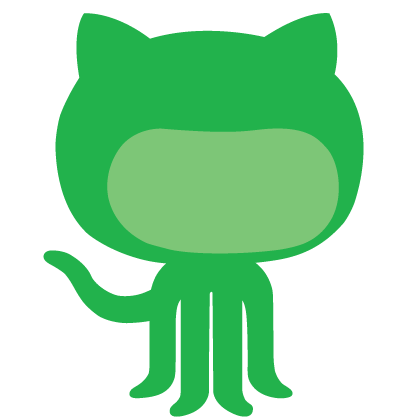
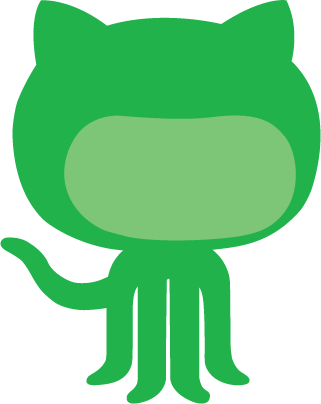
Added backgrounds and cropped textures

Changed region(s): [[0.0, 0.0, 1.0, 1.0]]

diff --git a/public/js/game/Drawing.js b/public/js/game/Drawing.js
@@ -12,11 +12,14 @@
  *   draw to.
  * @constructor
  */
-function Drawing(context, selfPlayerImg, otherPlayerImg, platformImg) {
+function Drawing(context, selfPlayerImg, otherPlayerImg,
+                 projectileImg, platformImg, backgroundImg) {
   this.context = context;
   this.selfPlayerImg = selfPlayerImg;
   this.otherPlayerImg = otherPlayerImg;
+  this.projectileImg = projectileImg;
   this.platformImg = platformImg;
+  this.backgroundImg = backgroundImg;
 }
 
 /**
@@ -30,6 +33,7 @@ Drawing.OTHER_PLAYER_LEFT_SRC = Drawing.BASE_IMG_URL + 'other-player-left.png';
 Drawing.OTHER_PLAYER_RIGHT_SRC = Drawing.BASE_IMG_URL + 'other-player-right.png';
 Drawing.PROJECTILE_SRC = Drawing.BASE_IMG_URL + 'projectile.png';
 Drawing.PLATFORM_SRC = Drawing.BASE_IMG_URL + 'platform.png';
+Drawing.BACKGROUND_SRC = Drawing.BASE_IMG_URL + 'background.png';
 
 /**
  * This is a factory method for creating a Drawing object.
@@ -38,12 +42,16 @@ Drawing.PLATFORM_SRC = Drawing.BASE_IMG_URL + 'platform.png';
  * @return {Drawing}
  */
 Drawing.create = function(context) {
-  var selfPlayerImg = [Drawing.createImage(Drawing.SELF_PLAYER_LEFT_SRC, 100, 100),
-                       Drawing.createImage(Drawing.SELF_PLAYER_RIGHT_SRC, 100, 100)];
-  var otherPlayerImg = [Drawing.createImage(Drawing.OTHER_PLAYER_LEFT_SRC, 100, 100),
-                        Drawing.createImage(Drawing.OTHER_PLAYER_RIGHT_SRC, 100, 100)];
-  var platformImg = Drawing.createImage(Drawing.PLATFORM_SRC, 100, 100);
-  return new Drawing(context, selfPlayerImg, otherPlayerImg, platformImg);
+  var selfPlayerImg = [Drawing.createImage(Drawing.SELF_PLAYER_LEFT_SRC, 0, 0),
+                       Drawing.createImage(Drawing.SELF_PLAYER_RIGHT_SRC, 0, 0)];
+  var otherPlayerImg = [Drawing.createImage(Drawing.OTHER_PLAYER_LEFT_SRC, 0, 0),
+                        Drawing.createImage(Drawing.OTHER_PLAYER_RIGHT_SRC, 0, 0)];
+  var projectileImg = Drawing.createImage(Drawing.PROJECTILE_SRC, 0, 0);
+  var platformImg = Drawing.createImage(Drawing.PLATFORM_SRC, 0, 0);
+  var backgroundImg = Drawing.createImage(Drawing.BACKGROUND_SRC, 0, 0);
+
+  return new Drawing(context, selfPlayerImg, otherPlayerImg,
+                     projectileImg, platformImg, backgroundImg);
 };
 
 /**
@@ -93,7 +101,7 @@ Drawing.prototype.drawPlayer = function(x, y, width, height, orientation, health
   }
 
   var healthX = x + width / 2 - Constants.PLAYER_MAX_HEALTH / 2 * 10;
-  var healthY = y - 10;
+  var healthY = y - 15;
   
   for (var i = 0; i < Constants.PLAYER_MAX_HEALTH; i++) {
     if (i < health) {
@@ -107,25 +115,29 @@ Drawing.prototype.drawPlayer = function(x, y, width, height, orientation, health
   }
 
   var nameX = x + width / 2;
-  var nameY = y - 20;
+  var nameY = y - 25;
   
   this.context.font = '16px Consolas';
   this.context.textAlign = 'center';
   this.context.fillText(name, nameX, nameY);
 };
 
-Drawing.prototype.drawPlatform = function(x, y, width, height) {
-  this.context.drawImage(this.platformImg, x, y, width, height);
-};
-
 Drawing.prototype.drawProjectile = function(x, y, width, height, orientation) {
   this.context.save();
   this.context.translate(x, y);
   this.context.rotate(orientation);
-  this.context.fillStyle = 'gray';
-  this.context.fillRect(0, 0, 10, 10);
+  this.context.drawImage(this.projectileImg, x, y, width, height);
   this.context.restore();
 };
+
+Drawing.prototype.drawPlatform = function(x, y, width, height) {
+  this.context.drawImage(this.platformImg, x, y, width, height);
+};
+
+Drawing.prototype.drawBackground = function() {
+  this.context.fillStyle = this.context.createPattern(this.backgroundImg, 'repeat');
+  this.context.fillRect(0, 0, Constants.CANVAS_WIDTH, Constants.CANVAS_HEIGHT);
+}
 
 /**
  * Draws a circle on the canvas.

diff --git a/shared/Constants.js b/shared/Constants.js
@@ -38,25 +38,25 @@ Constants.WORLD_MAX = 2500;
  * @const
  * @type {number}
  */
-Constants.CANVAS_WIDTH = 1024;
+Constants.CANVAS_WIDTH = 768;
 
 /**
  * @const
  * @type {number}
  */
-Constants.CANVAS_HEIGHT = 768;
+Constants.CANVAS_HEIGHT = 1024;
 
 /**
  * @const
  * @type {number}
  */
-Constants.VISIBILITY_THRESHOLD_X = 600;
+Constants.VISIBILITY_THRESHOLD_X = 400;
 
 /**
  * @const
  * @type {number}
  */
-Constants.VISIBILITY_THRESHOLD_Y = 400;
+Constants.VISIBILITY_THRESHOLD_Y = 600;
 
 /**
  * @const

diff --git a/public/js/game/Game.js b/public/js/game/Game.js
@@ -129,6 +129,8 @@ Game.prototype.draw = function() {
     this.drawing.clear();
   }
 
+  this.drawing.drawBackground();
+
   for (var i = 0; i < this.players.length; i++) {
     var position = this.viewport.toCanvasCoords(
         this.players[i]['x'], this.players[i]['y']);

diff --git a/public/styles/index.less b/public/styles/index.less
@@ -25,6 +25,6 @@ html, body {
 }
 
 #canvas {
-  width: 1024px;
-  height: 768px;
+  width: 768px;
+  height: 1024px;
 }
